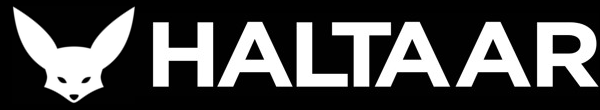
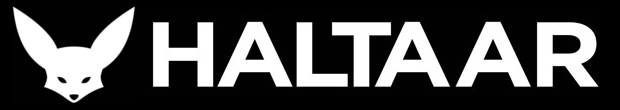
mobile testing changes

Changed region(s): [[0.06, 0.0545, 1.0, 0.9273], [0.03, 0.2182, 0.09, 0.5727], [0.0, 0.0545, 0.06, 0.2727]]

diff --git a/pictures.html b/pictures.html
@@ -5,7 +5,7 @@
 	<link rel="icon" type="image/gif" href="images/haltaar-icon.jpg">
 	<link rel="stylesheet" type="text/css" href="styles/main.css">
 	<script type="text/javascript" src="js/instafeed.js"></script>
-<meta name="viewport" content="width=device-width,initial-scale=1,maximum-scale=1,user-scalable=no" />
+<meta name="viewport" content="width=200, initial-scale=1" />
 </head>
 
 <header>	

diff --git a/styles/main.css b/styles/main.css
@@ -13,6 +13,11 @@ header {
 	min-width: 100%;
 }
 
+header > img {
+	max-width: 100%;
+	height: auto;
+}
+
 nav {
 	background-color: black;
 	min-width: 100%;
